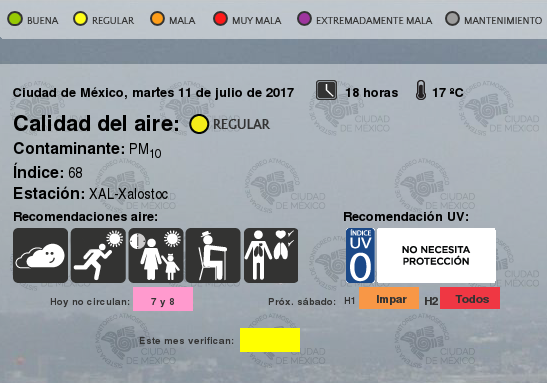
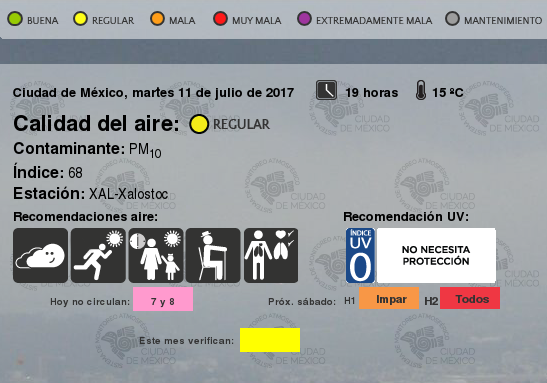
update images 11-07-2017 19:50

diff --git a/README.md b/README.md
@@ -8197,3 +8197,6 @@
 |11-07-2017 18:50
 |11-07-2017 19:03
 |11-07-2017 19:11
+|11-07-2017 19:20
+|11-07-2017 19:40
+|11-07-2017 19:50
